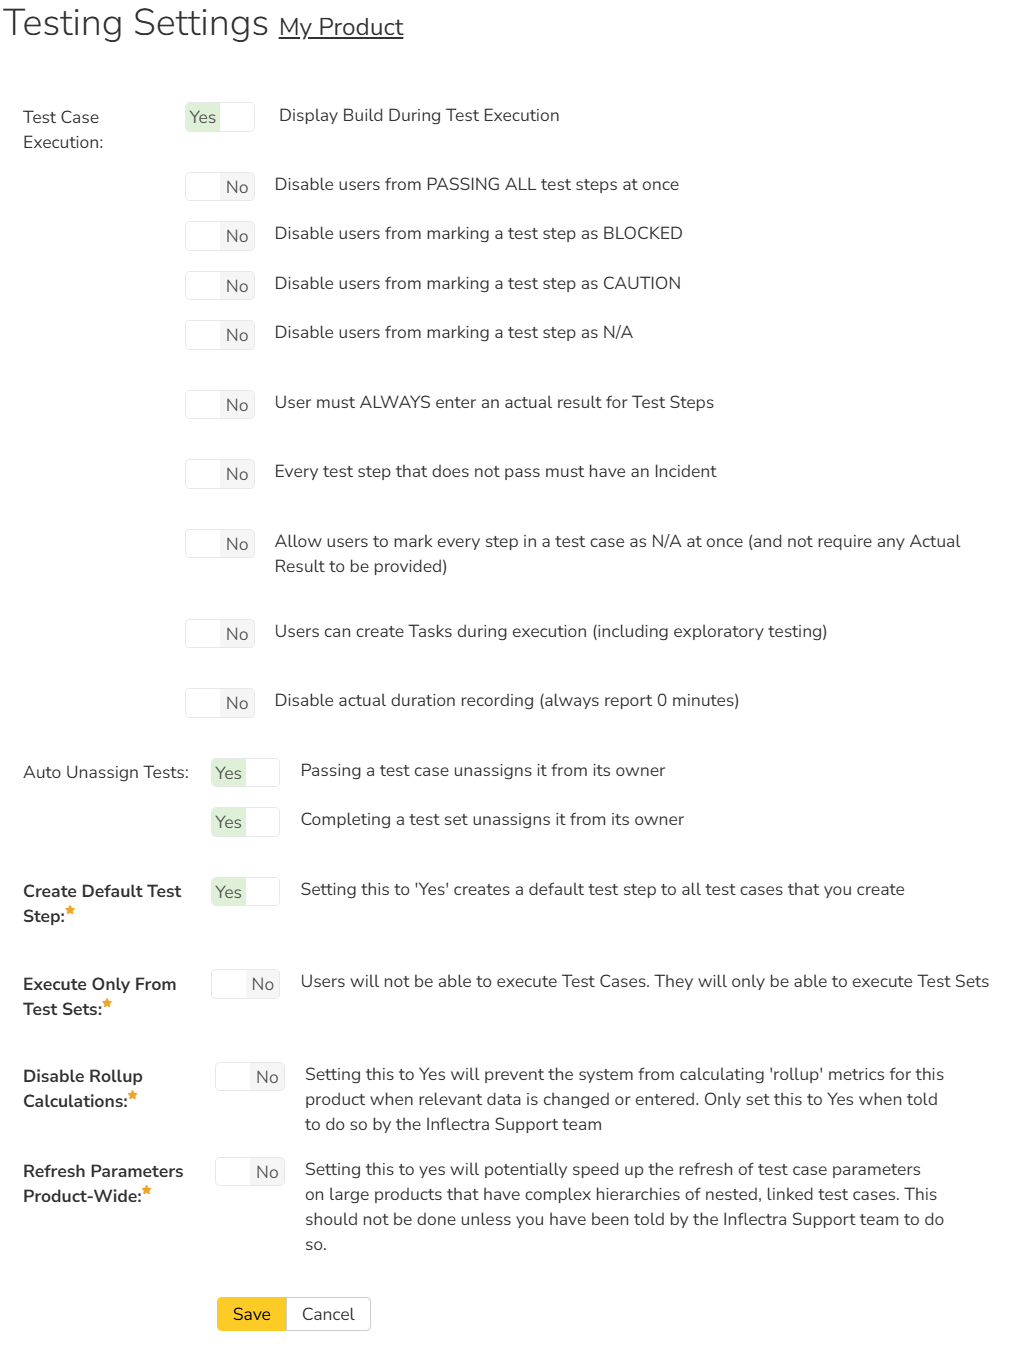
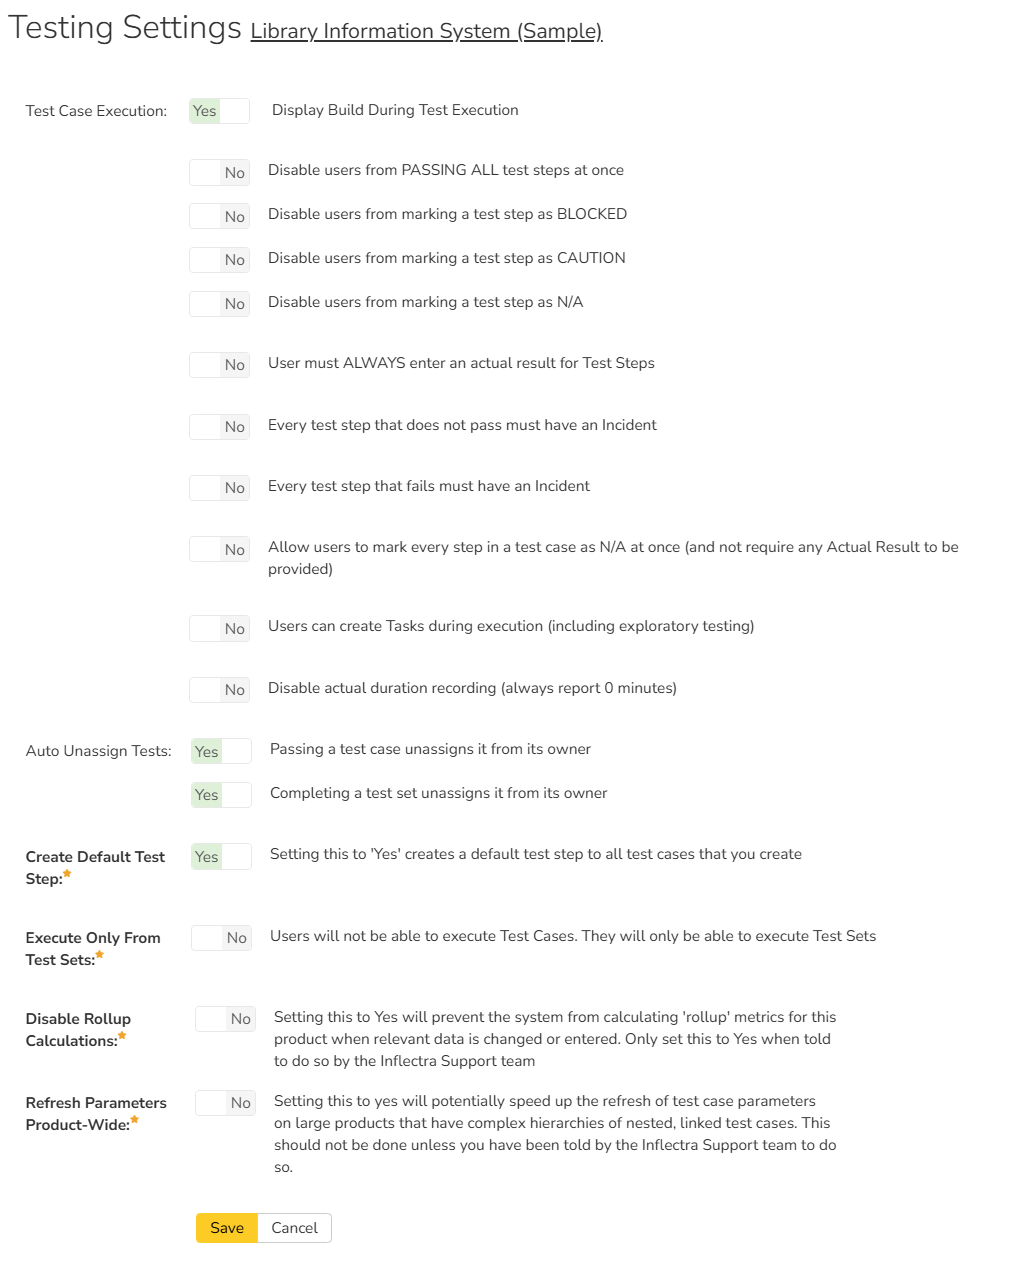
adds Spira 9.5 release notes

diff --git a/docs/Spira-Administration-Guide/Product-Planning.md b/docs/Spira-Administration-Guide/Product-Planning.md
@@ -79,6 +79,7 @@ You can enable or disable the following settings:
     - **Disable users from marking a test step as N/A**: (default = no) to disable "N/A" turn this setting on. Testers will no longer see an "N/A" button during testing.
     - **User must ALWAYS enter an actual result for Test Steps**: (default = no) an actual result is normally required when a step is marked as Fail, Blocked, Caution, or N/A. To also make testers enter an actual result when marked a step as Passed, turn this feature on.   
     - **Every test step that does not pass must have an Incident**: (default = no) turn this setting on to make sure that failed steps have an attached incident. This setting applies to marking a test step as Failed, Blocked, Caution, or N/A. When this setting is on, a tester will not be made to add a new incident every time they fail a step. If a step does not already have an incident linked to it the tester must either link an existing incident or make a new one.
+    - **Every test step that fails must have an Incident**: (default = no) turn this setting on to require an incident only when a test step is marked as Failed. Unlike the previous setting, this does not apply to Blocked, Caution, or N/A statuses - only explicit failures require an incident. When this setting is on and a tester marks a step as Failed, they must either link an existing incident or create a new one before proceeding. This is useful for organizations that want to track true failures while allowing testers to mark steps as Blocked, Caution, or N/A without mandatory incident creation.
     - **Allow users to mark every step in a test case as N/A at once**: (default = no) normally you can mark individual test steps as N/A. To do so you must enter an actual result for the test step. Turn this setting to show the users an "N/A All" button on the first test step of a test case. Any test steps marked in N/A in this way do not require the user to enter an actual result. Any test steps with a blank actual result will have a default actual result added automatically by the system. 
     - **Users can create Tasks during execution (including exploratory testing)**: (default = no) some testing workflows using tasks to log issues from testers to developers. This is more streamlined than using incidents, and can be particularly useful for issues that originated during a development cycle (ie are not existing bugs). Turning this setting on adds a task tab to both exploratory and normal test execution ot let testers quickly log tasks against the release and test step. 
     - **Disable actual duration recording (always report 0 minutes)**: (default = no) when turned on, the system records 0.0h as the actual duration for every test case executed, regardless of how long the tester spent. This is intended for organizations operating in jurisdictions where local laws restrict or prohibit tracking granular, task-by-task time spent by individual workers. Turning this on ensures no per-test-case timing data is captured.

diff --git a/docs/About/release-notes-v9.md b/docs/About/release-notes-v9.md
@@ -1,5 +1,29 @@
 # Release Notes for Spira v9
 
+## Version 9.5 (September 2026)
+!!! info "Summary"
+    Spira 9.5 continues the performance and stability improvements from 9.4, with additional fixes for test run retrieval, test set execution, and global navigation. This release also adds a new testing setting for requiring incidents only on failed test steps.
+
+??? success "New Features"
+    - Adds a new [Testing Setting](../Spira-Administration-Guide/Product-Planning.md/#testing-settings) to only require an incident when a test step is marked as Failed [IN:6510]
+
+??? bug "Bug fixes and enhancements"
+    - Fix a bug where inactive custom list values were displayed on artifact details pages [IN:12784]
+    - Fix a bug where program owners could not remove release associations from program milestones [IN:13346]
+    - Fix a bug where the global navigation could fail to load under certain conditions [IN:12705]
+    - Fix a bug where the global navigation could fail to load in certain Content Security Policy configurations [IN:13111]
+    - Fix a bug where the My Page Pending Test Runs widget logged false "Test Case doesn't exist" warnings [IN:12886]
+    - Fix a performance issue when linking releases to test cases [IN:13259]
+    - Fix a performance issue when retrieving test runs in products with large datasets [IN:13234]
+    - Fix SQL Server deadlock errors when recording automated test runs under high concurrency [IN:13332]
+    - Improve data sync setting placeholder text to include mentions of examples for better clarity [IN:12787]
+    - Rename references to API Keys throughout the application [IN:13281]
+    - Security fixes [IN:13230] [IN:13384] [IN:13385]
+
+## Version 9.4.0.1 (August 2026)
+??? bug "Bug fixes and enhancements"
+    - Security fixes [IN:13381]
+
 ## Version 9.4 (August 2026)
 !!! info "Summary"
     Spira 9.4 focuses on performance and stability, with significant database query optimizations that improve responsiveness across the application, especially for products with large datasets and many custom properties.
